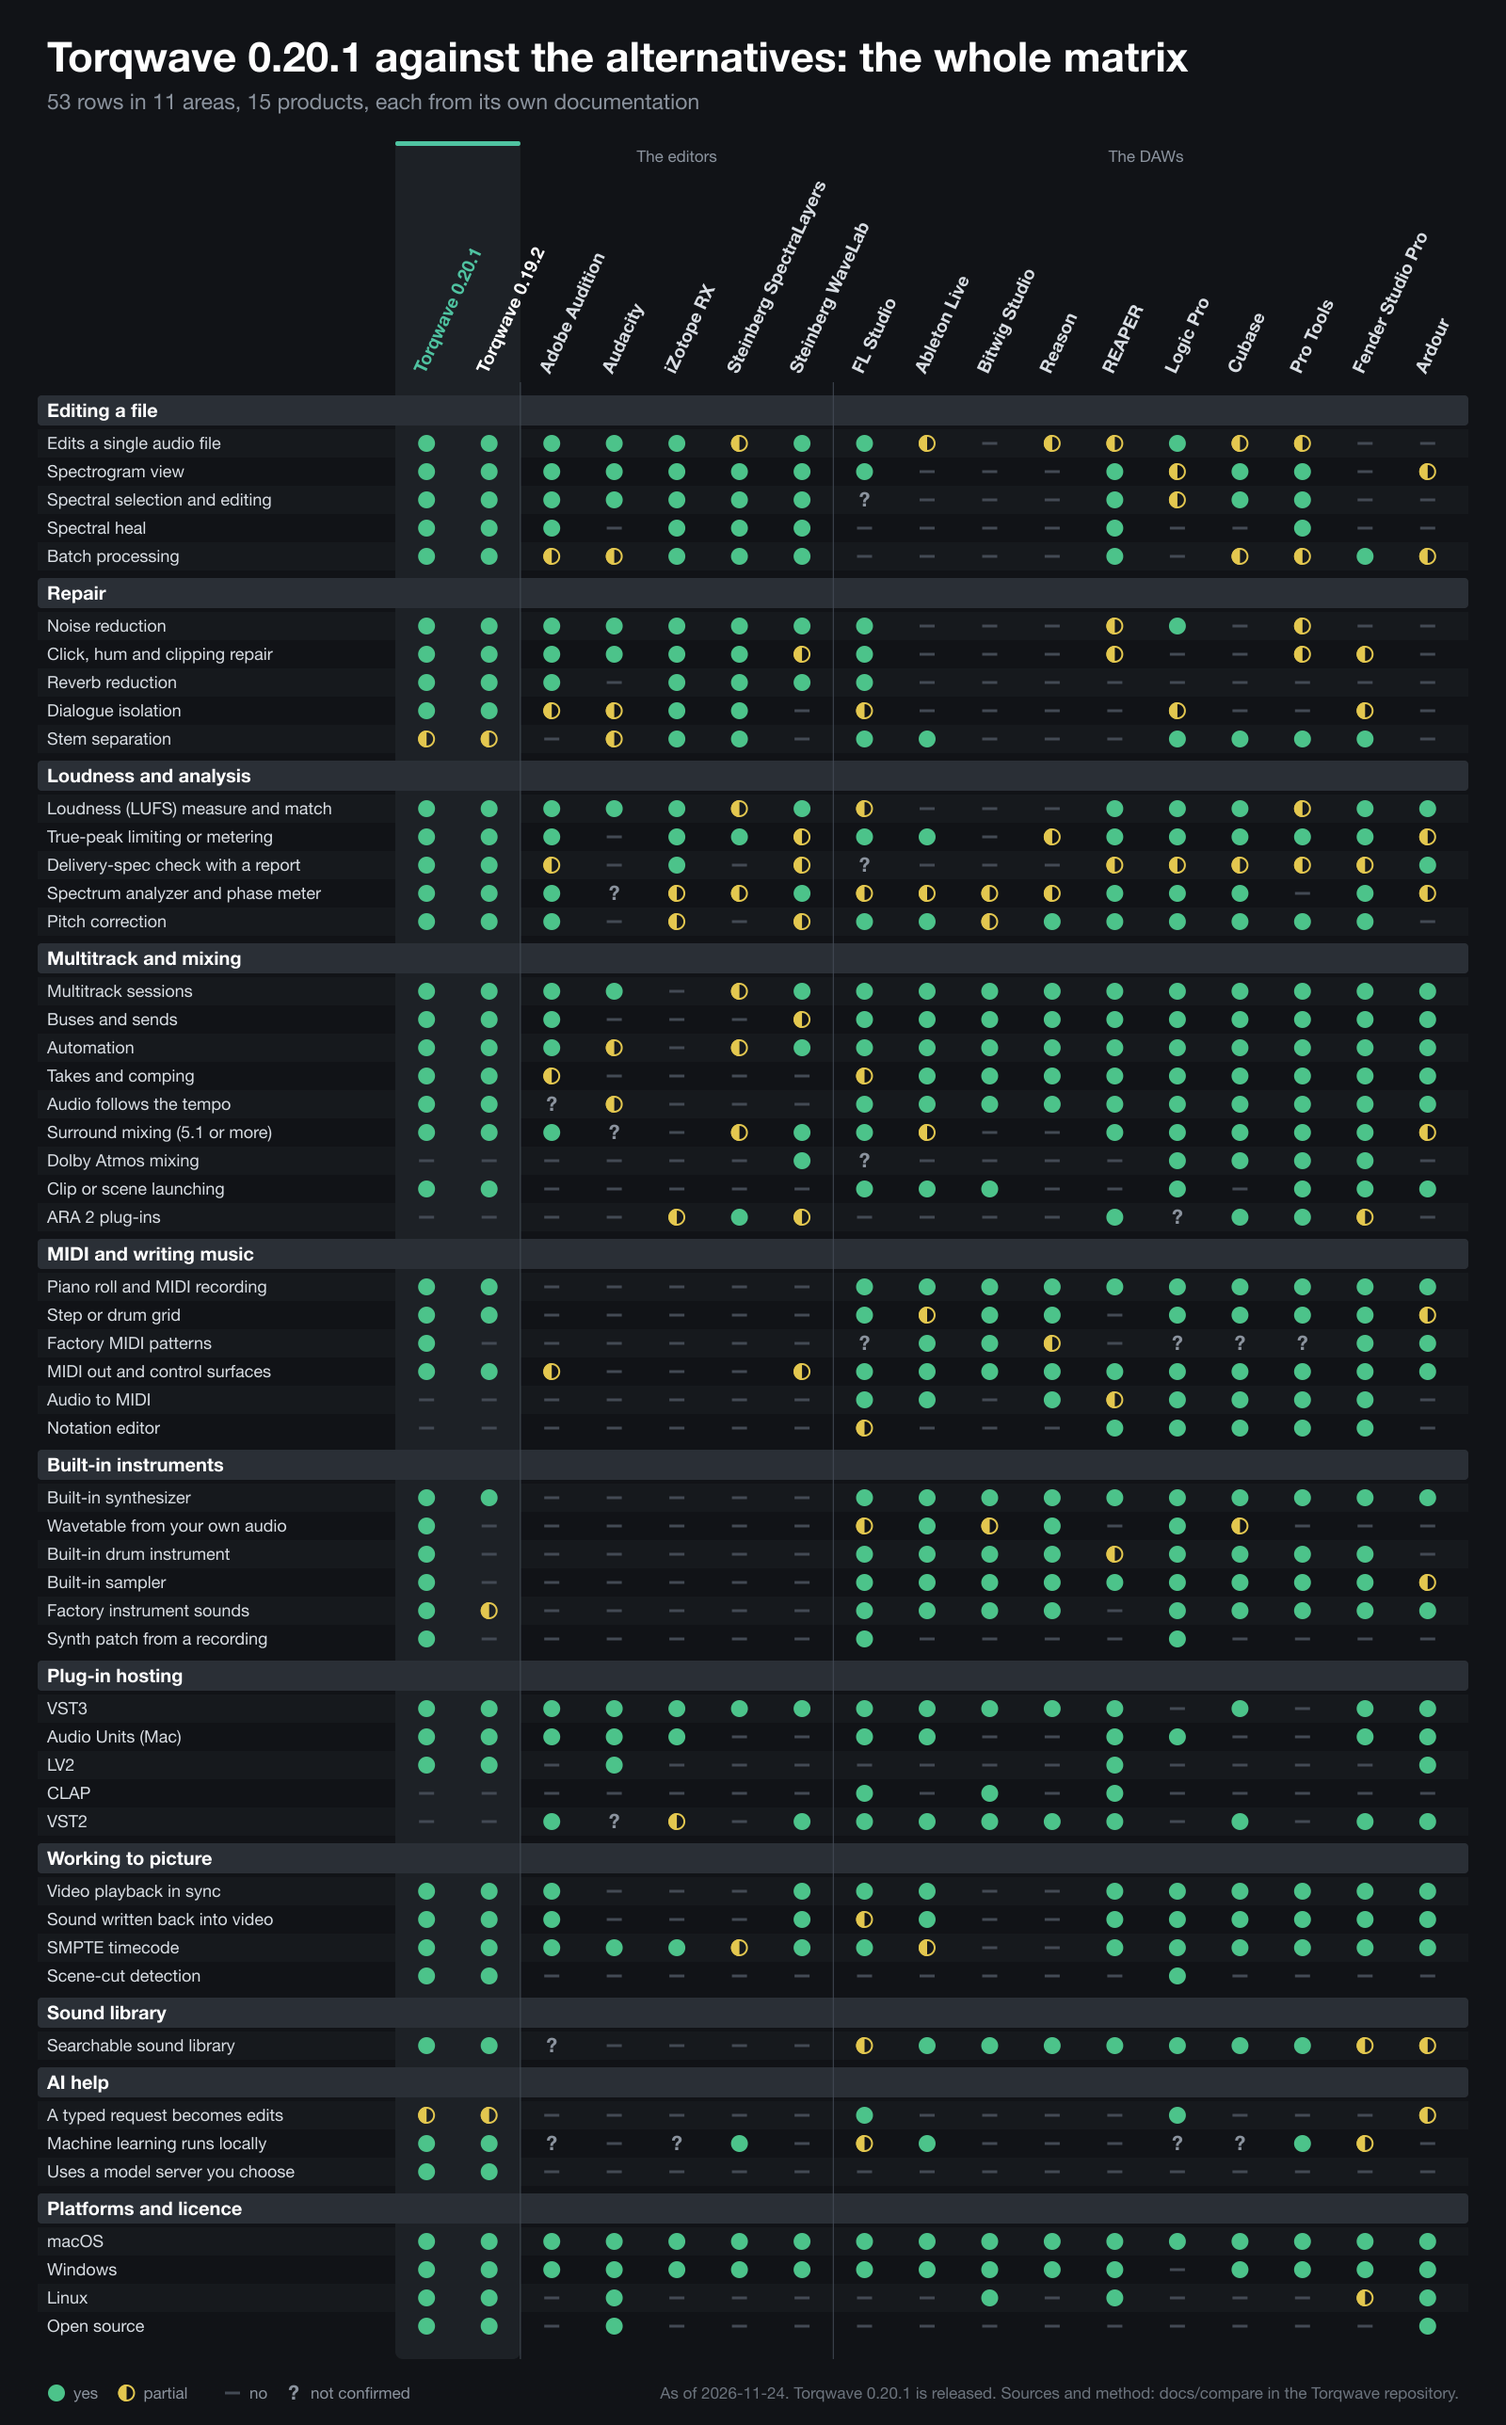
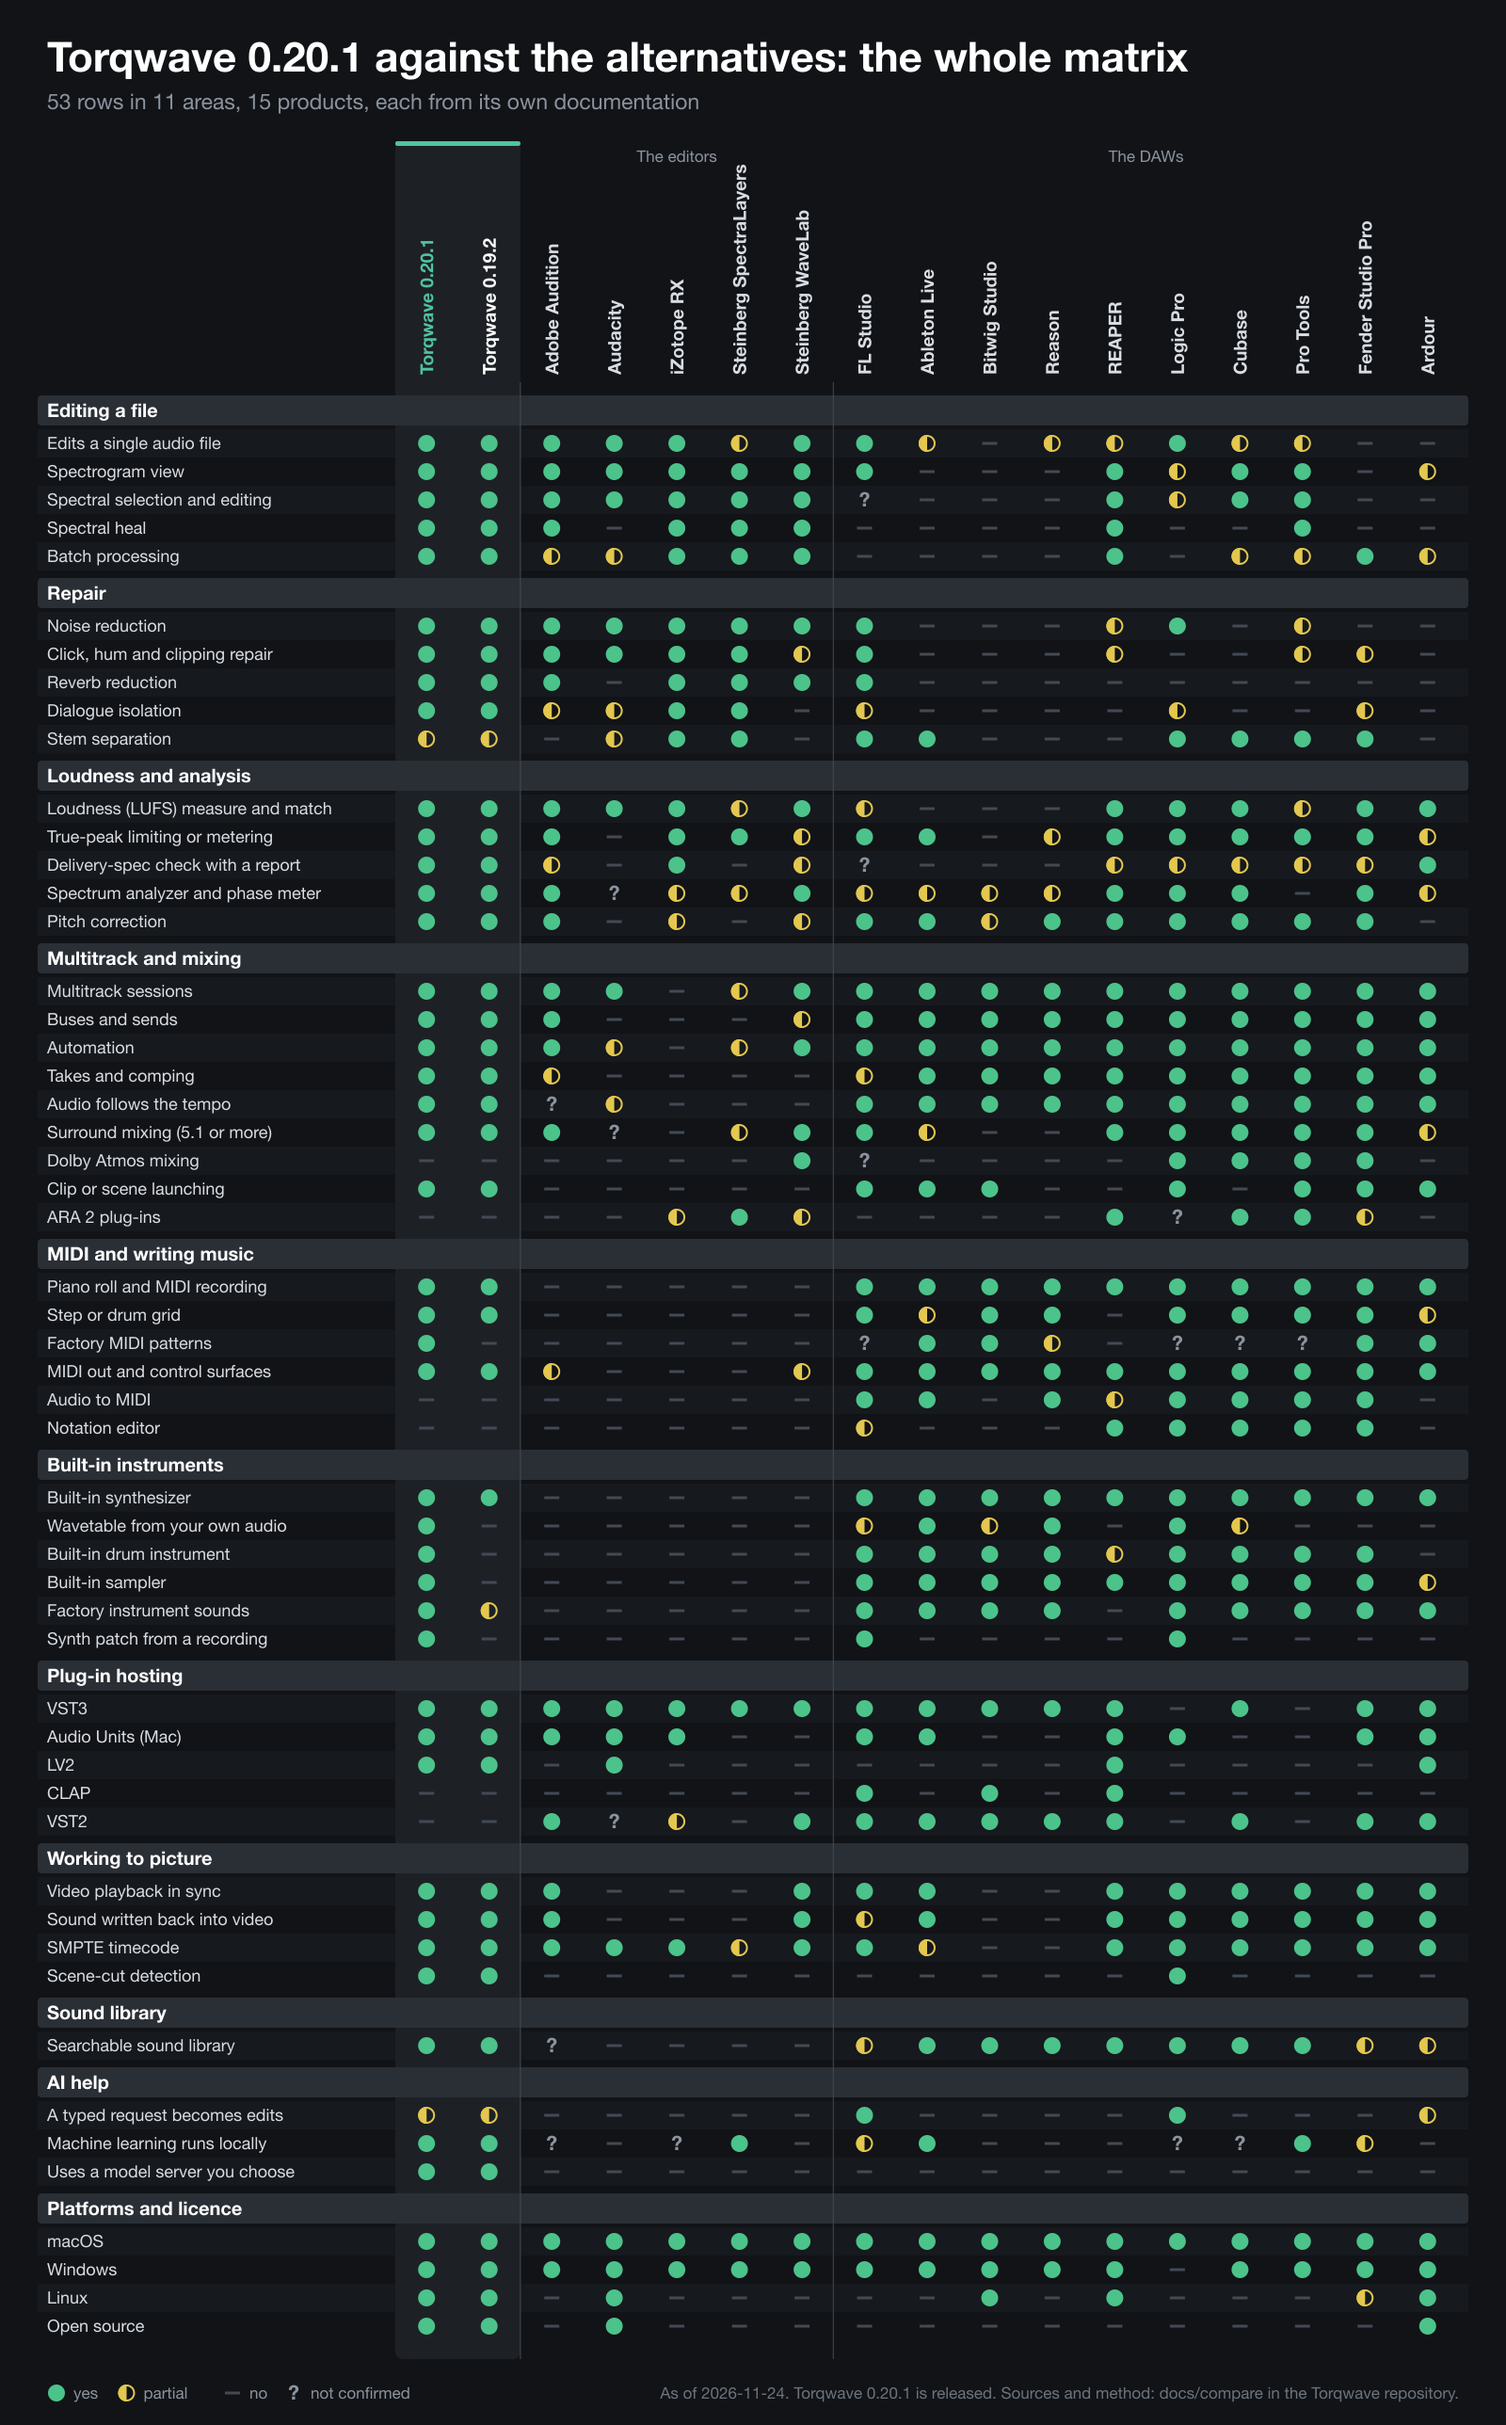
Compare: the whole matrix's column names stand over their own columns
They leaned to the right, so Torqwave's names left its shaded band and every
name sat over the column after its own.

Changed region(s): [[0.4062, 0.0621, 0.75, 0.1553], [0.7812, 0.0932, 0.9688, 0.1553], [0.2812, 0.0932, 0.4062, 0.1553]]

diff --git a/docs/compare/generate.py b/docs/compare/generate.py
@@ -218,7 +218,7 @@ def graphic_whole(defs, snap):
     for i, pid in enumerate(pids):
         x = cx0 + cw * (i + 0.5)
         own = pid.startswith("torqwave")
-        s.text(x - 2, top + head - 14, label(defs, snap, pid), 19, (WAVE if pid == "torqwave" else WHITE) if own else TEXT, "start", "bold", -65)
+        s.text(x + 7, top + head - 14, label(defs, snap, pid), 19, (WAVE if pid == "torqwave" else WHITE) if own else TEXT, "start", "bold", -90)
     y = top + head
     for g in groups:
         s.rect(lx - 10, y + 8, W - 2 * lx + 20, gh - 12, LINE, 4)
